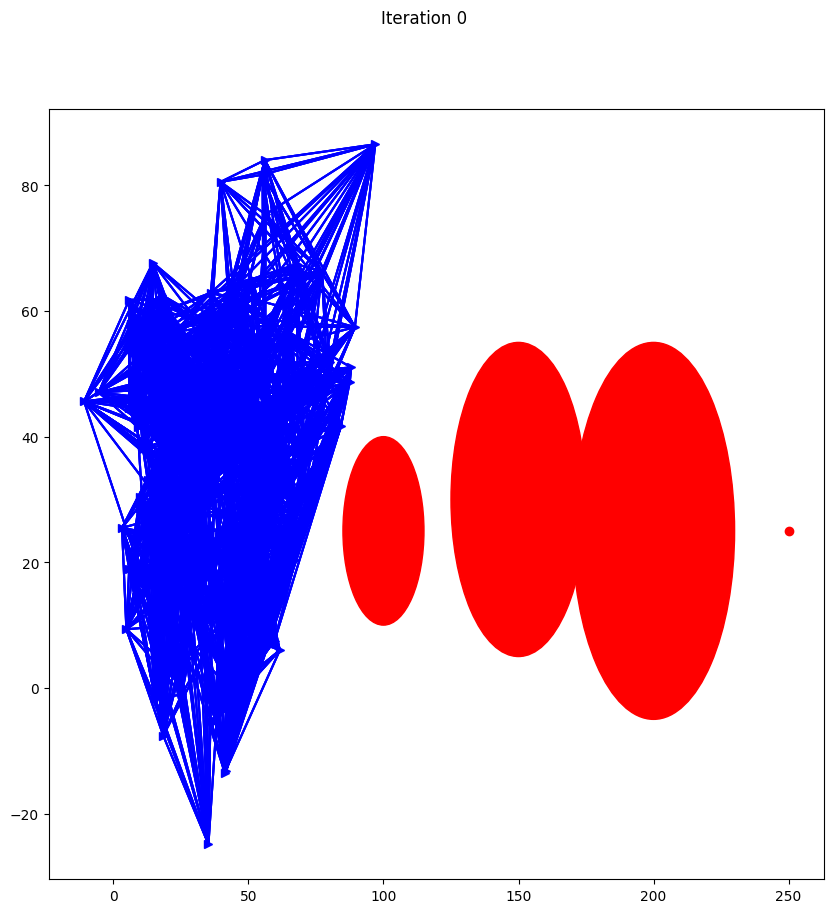
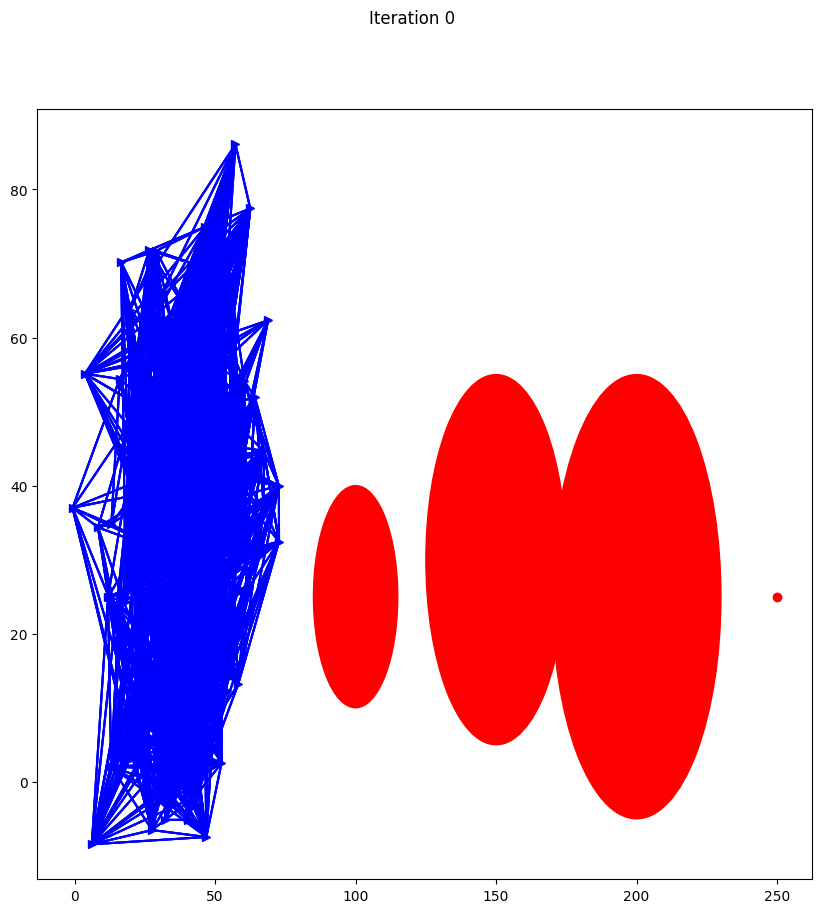
going with new approach in case.py, adjust accordingly

diff --git a/p2/case1/case.py b/p2/case1/case.py
@@ -1,0 +1,96 @@
+#project parameters
+import numpy as np
+import matplotlib.pyplot as plt
+
+num_nodes = 150
+m = 2 #space dimension
+d = 15 #distance between nodes
+k = 1.2 #scaling factor
+r = k * d # interaction range
+
+epsilon = 0.1
+delta_t = 0.009
+t = np.arange(0, 15, delta_t) # simulation time
+#generate 6 evenly spaced snapshots
+snapshot_t = np.linspace(0, len(t)-1, 6, dtype=int)
+
+c1 = 60
+c2 = 2 * np.sqrt(c1)
+
+c1_mt = 10
+c2_mt = 2 * np.sqrt(c1_mt)
+
+c1_b = 1000
+c2_b = 2 * np.sqrt(c1_b)
+
+#obstacles
+obstacles = [((100, 25), 15), ((150, 30), 25), ((200, 25), 30)] #obstacle locations and radii
+
+#target
+g_target = [250, 25]
+
+#initialize nodes in a 70x70 grid with num_nodes
+nodes = []
+for i in range(num_nodes):
+    x = np.random.uniform(0, 70)
+    y = np.random.uniform(0, 70)
+    nodes.append((x, y))
+
+#Initialize array for tracking the previous position and velocities of a node
+node_positions = np.zeros((len(t), m))
+node_velocities = np.zeros((len(t), m))
+
+#initialize center of mass trajectory of the nodes for each time step
+center_of_mass_trajectory = np.zeros((len(t), m))
+
+#initialize neighbor list for the nodes
+neighbors = [[] for i in range(num_nodes)]
+
+def plot_nodes():
+    plt.figure()
+    for node in nodes:
+        plt.plot(node[0], node[1], marker='>', color='blue')
+
+    link_sensor_nodes(nodes)
+
+def plot_obstacles():
+    for (x, y), radius in obstacles:
+        plt.gca().add_patch(plt.Circle((x, y), radius, color='red'))
+                            
+def plot_target():
+    plt.plot(g_target[0], g_target[1], marker='o', color='green')
+
+#Methods used for the simulation
+def link_sensor_nodes(nodes):
+    #link the nodes that are within the interaction range and plot their link with a lightblue line
+    for i in range(num_nodes):
+        for j in range(i+1, num_nodes):
+            if np.linalg.norm(np.array(nodes[i]) - np.array(nodes[j])) < r:
+                neighbors[i].append(j)
+                neighbors[j].append(i)
+                plt.plot([nodes[i][0], nodes[j][0]], [nodes[i][1], nodes[j][1]], color='blue')
+
+def plot_simulation():
+    plot_nodes()
+    plot_obstacles()
+    plot_target()
+    plt.show()
+
+def simulate_flocking():
+    for iteration in range(len(t)):
+        #store the center of mass of the nodes in the trajectory tuple
+        center_of_mass_trajectory[iteration] = np.mean(nodes, axis=0)
+
+        #store old positions and velocities
+        node_positions[iteration] = np.array(nodes)
+        node_velocities[iteration] = np.array(nodes)
+
+        
+
+
+        
+
+plot_simulation()
+plt.show()
+
+

diff --git a/p2/case1/case1.py b/p2/case1/case1.py
@@ -77,13 +77,13 @@ def plot_network(nodes, iteration, figure):
     figure.suptitle(f'Iteration {iteration}')
     if iteration == 0 or iteration == 5 or iteration == 10 or iteration == 15 or iteration == 20 or iteration == 200:
         figure.savefig(f'network_iteration_{iteration}.png', bbox_inches='tight')
-    
+
 def plot_velocity_values(nodes):
-    plt.figure()
+    plt.figure(figsize=(10,5))
     for node in nodes:
         step_numbers = list(range(len(node.prev_vel)))
         velocities = [np.sqrt(vel[0]**2 + vel[1]**2) for vel in node.prev_vel]
-        plt.plot(step_numbers, velocities, '-o', label=f'Node {node.index}')
+        plt.plot(step_numbers, velocities, label=f'Node {node.index}')
     plt.title('Velocity Values of Nodes at Each Step')
     plt.xlabel('Step Number')
     plt.ylabel('Velocity Magnitude')
@@ -96,7 +96,7 @@ def plot_prev_positions_with_trajectory(nodes):
     for node in nodes:
         x_positions = [pos[0] for pos in node.prev_pos]
         y_positions = [pos[1] for pos in node.prev_pos]
-        plt.plot(x_positions, y_positions, marker='o', markersize=4, label=f'Node {node.index}') 
+        plt.plot(x_positions, y_positions, label=f'Node {node.index}', color='m')
     plt.title('Trajectories of Nodes')
     plt.xlabel('X position')
     plt.ylabel('Y position')
